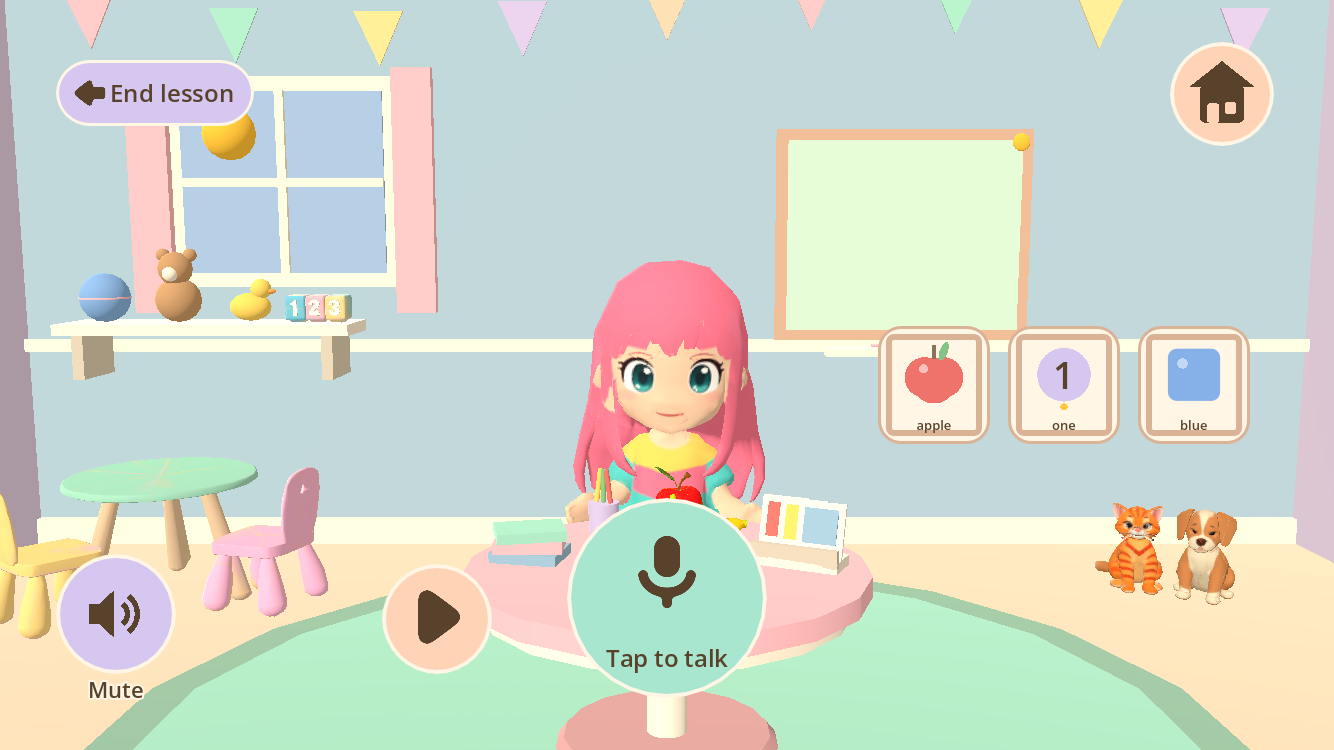
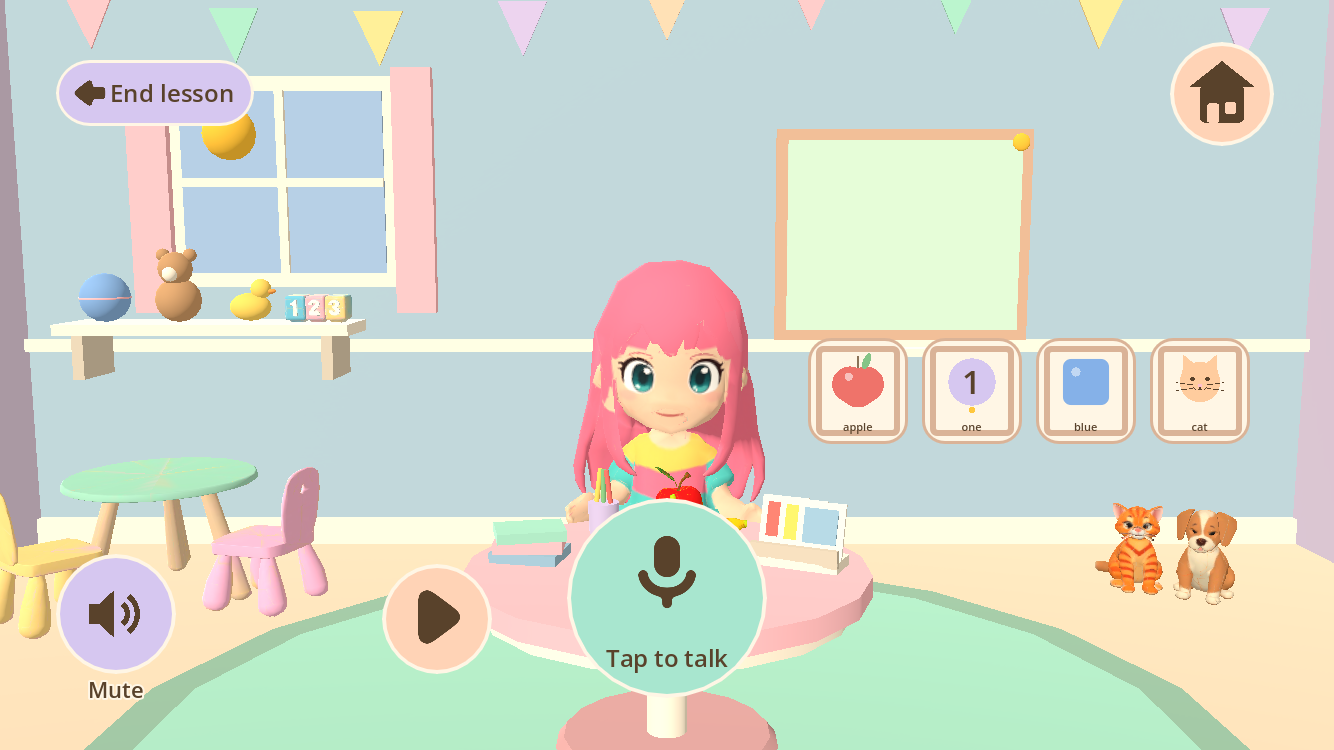
tutor: close QA C3-C8 (earned stars, four subject cards, hands-free privacy copy, board allowlist guard, gated celebrate beat, book glyph); iPad quick check covers the classroom

Changed region(s): [[0.584, 0.4293, 0.9528, 0.6133]]

diff --git a/docs/IPAD_QUICK_CHECK.md b/docs/IPAD_QUICK_CHECK.md
@@ -91,9 +91,19 @@ Feed Bunny → Mission Complete → **Snack Time**.
 | 18 | Touch fallback | Parent Corner (Grown-ups) → Voice off. Every task still finishable by touch | ☐ |
 | 19 | Save, soft | Swipe the app away, relaunch. Stars and progress return | ☐ |
 | 20 | Save, cold | Reboot the iPad, relaunch. Same | ☐ |
+| 21 | **Learn with Aliz** | Menu top-left book card → the classroom (Aliz at a round table, cards, board, cat and dog). She says hello and asks what to learn; say "animals" (or tap the cat card). No mic prompt anywhere before this screen | ☐ |
+| 22 | Hands-free | Aliz asks "What is this?" with the cat on the board. Say "cat" without touching anything: "I hear you!", then Great! and the next question. A cough or "um" must not be judged; a 3 s silence makes her ask again | ☐ |
+| 23 | Barge-in | While Aliz is still talking, say "Wait! I want the dog!". She stops mid-sentence within a beat, the board shows the dog and she asks about the dog. If she talks over you, write it down | ☐ |
+| 24 | Wrong answer | Say "dog" to the cat. A kind "Try again", a hint, then she says it together with you. No red, no score | ☐ |
+| 25 | Echo | With the speaker loud, Aliz's own voice must never count as your answer or interrupt her. If she interrupts herself, that is a hard FAIL | ☐ |
+| 26 | Background | Press the Home button mid-lesson, come back. The lesson resumes on the same question and the mic indicator is off until she asks again | ☐ |
+| 27 | Mic denied | Settings → Little Days → Microphone off → relaunch → Learn with Aliz. A Tap-to-talk button and answer cards appear; the whole lesson is finishable by tap; nothing says "error" | ☐ |
+| 28 | Five minutes | After about five minutes of lessons in one day: "Great job today!" card at the end of a question, never mid-sentence. Continue Playing returns to Free Play; Home returns to the menu. Nothing is locked, nothing is sold | ☐ |
+| 29 | Grown-ups → Aliz | Hands-free off makes the classroom tap-to-talk; Delete learning history clears Aliz's progress and today's minutes but not the stars; the privacy text says the online tutor is switched off | ☐ |
 
 Stop and write it down if: it crashes, Aliz gets stuck, anything is unreadable,
-the iPad gets hot, a reward is granted twice, or progress is lost.
+the iPad gets hot, a reward is granted twice, progress is lost, or the classroom
+mic is ever on outside a lesson (the indicator at the bottom says so).
 
 ## Speech evidence to send back
 

diff --git a/docs/ALIZ_TUTOR_PARENT_INFO.md b/docs/ALIZ_TUTOR_PARENT_INFO.md
@@ -12,9 +12,10 @@ gate condition G13).
 ## English (show as-is)
 
 Learn with Aliz runs on this device. Lessons, pictures and Aliz's voice are
-built into the app. When your child taps the microphone, the device's own
-speech recognition listens for the practice word. Nothing is recorded, saved
-or sent anywhere: no audio, no words your child says, no name, no location.
+built into the app. During a lesson the device's own speech recognition
+listens for your child's answers and stops when the lesson ends. Nothing is
+recorded, saved or sent anywhere: no audio, no words your child says, no name,
+no location.
 
 The app keeps only stars, lesson progress and today's tutor minutes, stored on
 this device. You can erase them from Parent Corner at any time.
@@ -26,7 +27,7 @@ exactly what would be shared.
 ## Thai helper (แสดงใต้ข้อความภาษาอังกฤษ)
 
 เรียนกับอลิซทำงานบนเครื่องนี้ทั้งหมด บทเรียน รูปภาพ และเสียงของอลิซถูกบรรจุมาในแอป
-เมื่อลูกแตะปุ่มไมโครโฟน ระบบรู้จำเสียงของตัวเครื่องจะฟังคำศัพท์ที่ฝึก
+ระหว่างบทเรียน ระบบรู้จำเสียงของตัวเครื่องจะฟังคำตอบของลูก และหยุดฟังเมื่อจบบทเรียน
 ไม่มีการบันทึกเสียง ไม่เก็บคำที่ลูกพูด ไม่ส่งข้อมูลใด ๆ ออกไป ไม่มีชื่อ ไม่มีตำแหน่งที่อยู่
 
 แอปเก็บเพียงดาว ความคืบหน้าของบทเรียน และเวลาเรียนของวันนี้ไว้ในเครื่องนี้เท่านั้น

diff --git a/docs/ALIZ_TUTOR_FINAL_REPORT.md b/docs/ALIZ_TUTOR_FINAL_REPORT.md
@@ -99,12 +99,14 @@ claimed.
 
 ## 9. Known limitations and cosmetic items
 
-QA's cosmetic list (`docs/QA_TUTOR_a8a2e1f.md`): the 3 s long-pause script error
-is fixed in `e569f5e` (Aliz now asks again and the mic stays open; covered by a
-test), the quota-closing card shows three
-stars with no completed lesson, the tap fallback offers no Animals card, the
-parent privacy copy still says "taps the microphone", the board accepts
-non-allowlisted ids (the validator guards upstream), the indicator says
-Listening during the celebrate beat, the title card glyph is a microphone.
-Engine: cup/spoon have no flashcards; voice-pack ids are placeholders until
-recordings exist.
+QA's cosmetic list (`docs/QA_TUTOR_a8a2e1f.md`) is closed as of the commit
+after `e569f5e`: C1 a long silence makes Aliz ask again with no script error;
+C3 the closing card shows only the stars earned this session (none when no
+answer was given); C4 the tap fallback offers all four subjects with a
+flashcard (Animals included; Everyday Things still has no cup/spoon card);
+C5 the parent privacy text describes hands-free listening in English and Thai;
+C6 the lesson board refuses ids off the allowlist; C7 the mic is gated and the
+indicator says off during the celebrate beat; C8 the title card carries an
+original book glyph, not a microphone. Each has a test or a frame. Engine:
+cup/spoon have no flashcards; voice-pack ids are placeholders until recordings
+exist.
